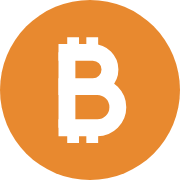
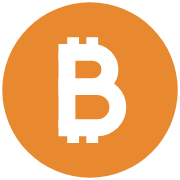
Bitcoin Power Law Forecast: bigger title and coin; coin no longer clipped at the sides

Changed region(s): [[0.0, 0.0, 1.0, 1.0]]

diff --git a/bitcoin-power-law-forecast/index.html b/bitcoin-power-law-forecast/index.html
@@ -64,9 +64,9 @@
   .theme-toggle .dot { width: 8px; height: 8px; border-radius: 50%; background: var(--accent); }
   .theme-toggle .lbl[data-t]::after { content: attr(data-t); }
 
-  h1.wm { font-weight: 600; font-size: 24px; line-height: 1.15; letter-spacing: -.02em; margin: 0;
+  h1.wm { font-weight: 600; font-size: clamp(18px, 1.4vw + 12px, 30px); line-height: 1.15; letter-spacing: -.02em; margin: 0;
           display: flex; align-items: center; gap: .4em; min-width: 0; }
-  h1.wm svg { width: 1.05em; height: 1.05em; flex: none; }
+  h1.wm svg { width: 1.2em; height: 1.2em; flex: none; overflow: visible; }
   .lede { max-width: 62ch; margin: 0 0 .5rem; }
   .over { color: var(--soft); max-width: 80ch; margin: 0 0 2.8rem; }
   h2 { font-weight: 600; font-size: var(--t-l); margin: 4rem 0 1.2rem; letter-spacing: -.015em; }
@@ -143,7 +143,7 @@
     .wrap { padding: 1.4rem 1rem 4rem; }
     .bar { margin-bottom: 1.8rem; gap: .6rem; }
     .barright { gap: .6rem; }
-    h1.wm { font-size: 17px; }
+    h1.wm { font-size: clamp(16px, 4.5vw, 20px); }
     .home .hl { display: none; }
     .now { display: grid; grid-template-columns: 1fr 1fr; gap: 1rem 1.2rem; }
     .controls { grid-template-columns: 1fr; gap: 1.3rem; }
@@ -162,7 +162,7 @@
 <body>
 <div class="wrap">
   <div class="bar">
-    <h1 class="wm"><svg viewBox="0 0 32 32" aria-hidden="true"><circle cx="16" cy="16" r="16" fill="#E8892F"/><g fill="none" stroke="#fff" stroke-width="3" stroke-linejoin="round" transform="translate(-1.6 0)"><path d="M12 9.3 H18.1 a3.05 3.05 0 0 1 0 6.1 H12 M12 15.4 H18.9 a3.65 3.65 0 0 1 0 7.3 H12"/><path d="M13.5 9.3 V22.7"/><path d="M14.6 6.6 V9.3 M18 6.6 V9.3 M14.6 22.7 V25.4 M18 22.7 V25.4" stroke-width="2.1"/></g></svg><span>Bitcoin Power Law Forecast</span></h1>
+    <h1 class="wm"><svg viewBox="-1 -1 34 34" aria-hidden="true"><circle cx="16" cy="16" r="16" fill="#E8892F"/><g fill="none" stroke="#fff" stroke-width="3" stroke-linejoin="round" transform="translate(-1.6 0)"><path d="M12 9.3 H18.1 a3.05 3.05 0 0 1 0 6.1 H12 M12 15.4 H18.9 a3.65 3.65 0 0 1 0 7.3 H12"/><path d="M13.5 9.3 V22.7"/><path d="M14.6 6.6 V9.3 M18 6.6 V9.3 M14.6 22.7 V25.4 M18 22.7 V25.4" stroke-width="2.1"/></g></svg><span>Bitcoin Power Law Forecast</span></h1>
     <div class="barright">
     <button class="theme-toggle" id="themeBtn" type="button" aria-label="Switch to dark theme"><span class="dot" aria-hidden="true"></span><span class="lbl" id="themeLbl" data-t="Dark"></span></button>
     <a class="home" href="https://charlietrenorden.com/" aria-label="Other projects"><span class="back">&larr;</span><span class="hl">&nbsp;Other projects</span></a>
